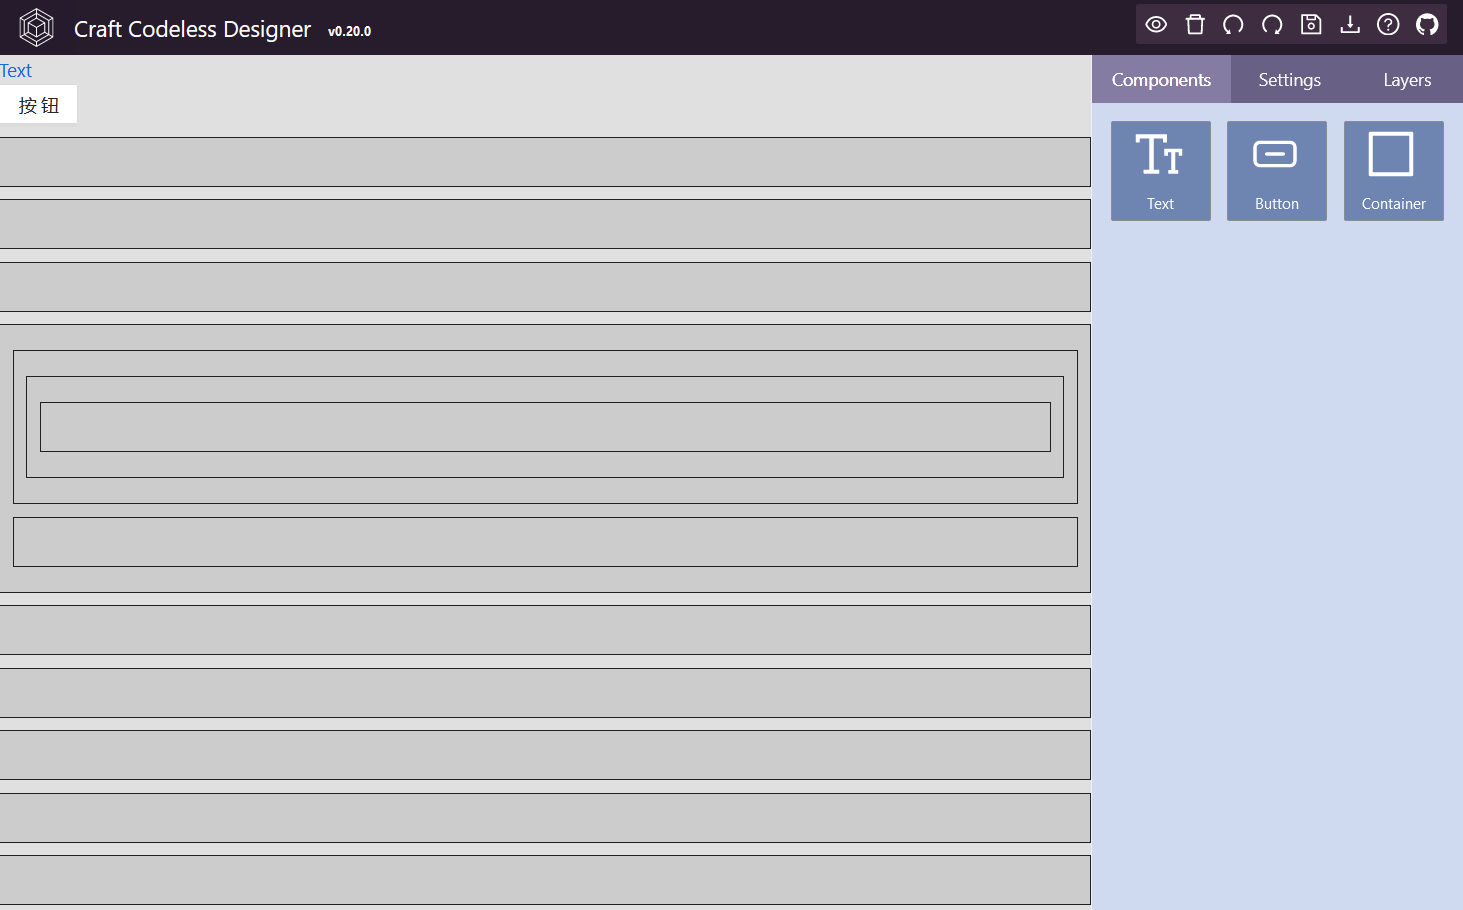
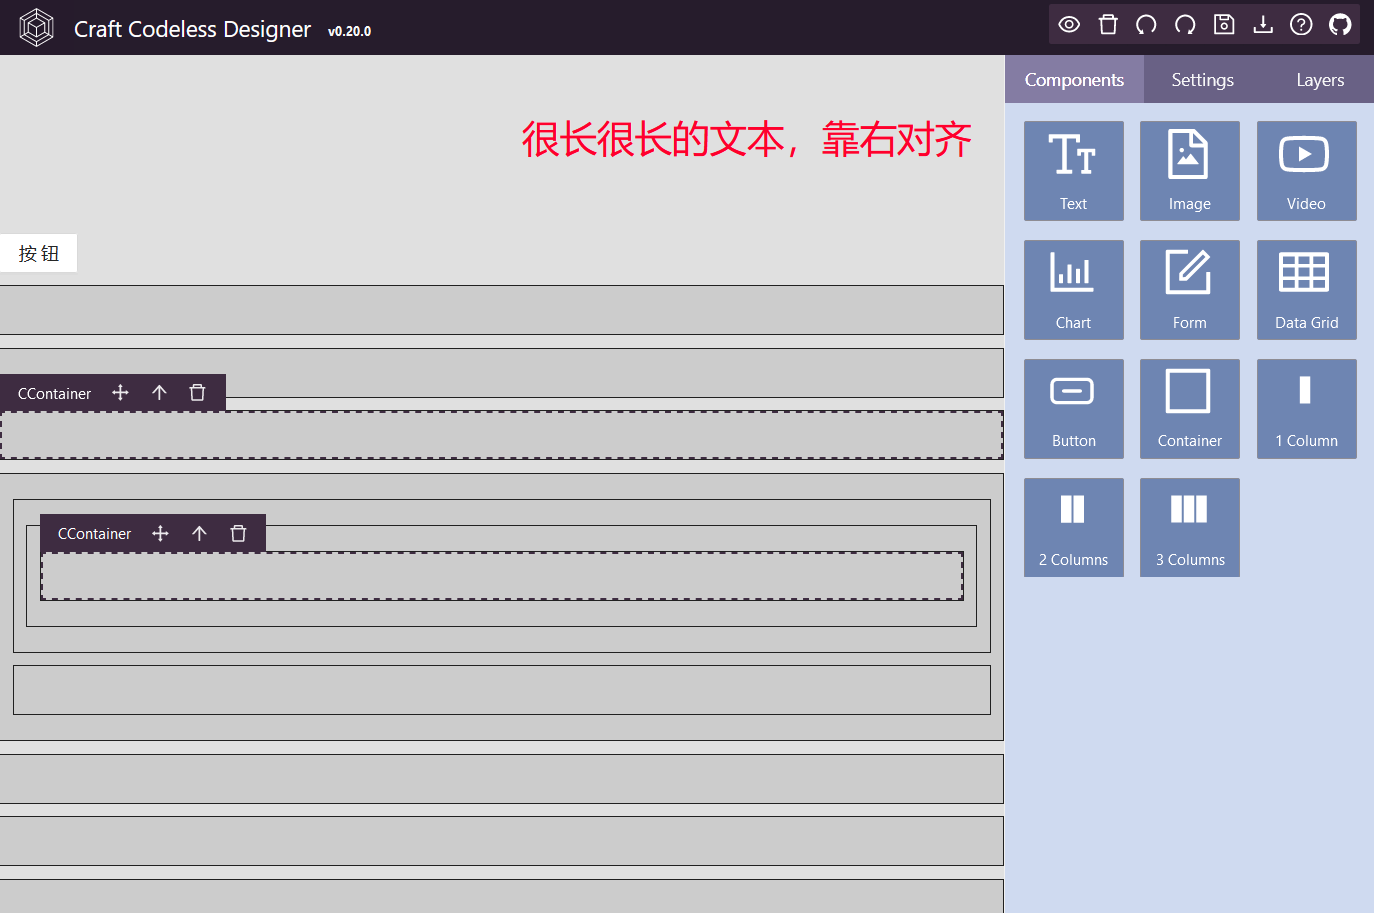
add tools for components

Changed region(s): [[0.0, 0.0, 1.0, 1.0], [0.0, 0.0, 0.2751, 0.1538], [0.0, 0.2462, 0.0611, 0.3077]]

diff --git a/src/designer/RenderNode.jsx b/src/designer/RenderNode.jsx
@@ -1,0 +1,143 @@
+import { ArrowUpOutlined, DeleteOutlined, DragOutlined } from '@ant-design/icons';
+import { useEditor, useNode } from '@craftjs/core';
+import { ROOT_NODE } from '@craftjs/utils';
+import React, { useCallback, useEffect, useRef } from 'react';
+import ReactDOM from 'react-dom';
+import styled from 'styled-components';
+import './RenderNode.css';
+
+const IndicatorDiv = styled.div`
+  height: 30px;
+  margin-top: -29px;
+  font-size: 12px;
+  line-height: 12px;
+
+  svg {
+    fill: #fff;
+    width: 15px;
+    height: 15px;
+  }
+`;
+
+const Btn = styled.a`
+  padding: 0 0px;
+  opacity: 0.9;
+  display: flex;
+  align-items: center;
+  > div {
+    position: relative;
+    top: -50%;
+    left: -50%;
+  }
+`;
+
+export const RenderNode = ({ render }) => {
+  const { id } = useNode();
+  const { actions, query, isActive } = useEditor((_, query) => ({
+    isActive: query.getEvent('selected').contains(id),
+  }));
+
+  const {
+    isHover,
+    dom,
+    name,
+    moveable,
+    deletable,
+    connectors: { drag },
+    parent,
+  } = useNode(node => ({
+    isHover: node.events.hovered,
+    dom: node.dom,
+    name: node.data.custom.displayName || node.data.displayName,
+    moveable: query.node(node.id).isDraggable(),
+    deletable: query.node(node.id).isDeletable(),
+    parent: node.data.parent,
+    props: node.data.props,
+  }));
+
+  const currentRef = useRef();
+
+  useEffect(() => {
+    if (dom) {
+      //FIXME:需要实现 component-selected 样式
+      if (isActive || isHover) dom.classList.add('component-selected');
+      else dom.classList.remove('component-selected');
+    }
+  }, [dom, isActive, isHover]);
+
+  const getPos = useCallback(dom => {
+    const { top, left, bottom } = dom ? dom.getBoundingClientRect() : { top: 0, left: 0, bottom: 0 };
+    return {
+      top: `${top > 0 ? top : bottom}px`,
+      left: `${left}px`,
+    };
+  }, []);
+
+  const scroll = useCallback(() => {
+    const { current: currentDOM } = currentRef;
+    if (!currentDOM) return;
+    const { top, left } = getPos(dom);
+    currentDOM.style.top = top;
+    currentDOM.style.left = left;
+  }, [dom, getPos]);
+
+  useEffect(() => {
+    document.querySelector('.craftjs-renderer').addEventListener('scroll', scroll);
+    return () => {
+      document.querySelector('.craftjs-renderer').removeEventListener('scroll', scroll);
+    };
+  }, [scroll]);
+
+  return (
+    <>
+      {isHover || isActive
+        ? ReactDOM.createPortal(
+            <IndicatorDiv
+              ref={currentRef}
+              style={{
+                color: '#FFF',
+                padding: '15px',
+                alignItems: 'center',
+                display: 'flex',
+                position: 'fixed',
+                backgroundColor: '#3e2c41',
+                left: getPos(dom).left,
+                top: getPos(dom).top,
+                zIndex: 9999,
+              }}
+            >
+              <h2 style={{ fleX: 1, marginRight: '1rem', marginBottom: '0', color: '#fff', fontSize: '12px' }}>{name}</h2>
+              {moveable ? (
+                <Btn style={{ fleX: 1, marginRight: '1rem', cursor: 'move' }} ref={drag}>
+                  <DragOutlined></DragOutlined>
+                </Btn>
+              ) : null}
+              {id !== ROOT_NODE && (
+                <Btn
+                  style={{ marginRight: '1rem', cursor: 'pointer' }}
+                  onClick={() => {
+                    actions.selectNode(parent);
+                  }}
+                >
+                  <ArrowUpOutlined></ArrowUpOutlined>
+                </Btn>
+              )}
+              {deletable ? (
+                <Btn
+                  style={{ cursor: 'pointer' }}
+                  onMouseDown={e => {
+                    e.stopPropagation();
+                    actions.delete(id);
+                  }}
+                >
+                  <DeleteOutlined></DeleteOutlined>
+                </Btn>
+              ) : null}
+            </IndicatorDiv>,
+            document.querySelector('.page-container'),
+          )
+        : null}
+      {render}
+    </>
+  );
+};

diff --git a/src/designer/CraftDesigner.jsx b/src/designer/CraftDesigner.jsx
@@ -1,4 +1,5 @@
 import { Editor } from '@craftjs/core';
+import cx from 'classnames';
 import React from 'react';
 import { Scrollbars } from 'react-custom-scrollbars';
 import styled from 'styled-components';
@@ -7,6 +8,7 @@ import { CText } from '../craft-components/basic/ctext/CText';
 import { CContainer } from '../craft-components/custome/ccontainer/CContainer';
 import { CanvasArea } from './canvas-area/CanvasArea';
 import { NavBar } from './nav-bar/NavBar';
+import { RenderNode } from './RenderNode';
 import { IconList } from './sider-bar/icon-list/IconList';
 import { SiderBar } from './sider-bar/SiderBar';
 
@@ -21,7 +23,7 @@ const MainContainer = styled.div`
 
   .canvasArea {
     flex: 1;
-    background-color: '#6E85B2';
+    background-color: #f7f7f7;
     margin: 0;
   }
 
@@ -41,7 +43,7 @@ const MainContainer = styled.div`
  */
 export const CraftDesigner = props => {
   return (
-    <Editor resolver={{ CButton, CContainer, IconList, CText }}>
+    <Editor resolver={{ CButton, CContainer, IconList, CText }} onRender={RenderNode}>
       <NavBar
         onLoadData={evt => {
           let testData = window.localStorage.getItem('test-data');
@@ -53,8 +55,8 @@ export const CraftDesigner = props => {
           return testData;
         }}
       ></NavBar>
-      <MainContainer>
-        <div className="canvasArea">
+      <MainContainer className="page-container">
+        <div className={cx(['canvasArea craftjs-renderer'])}>
           <Scrollbars
             autoHide
             autoHideTimeout={1000}

diff --git a/src/designer/RenderNode.css b/src/designer/RenderNode.css
@@ -1,0 +1,15 @@
+.component-selected {
+  position: relative;
+}
+
+.component-selected:after {
+  content: ' ';
+  pointer-events: none;
+  position: absolute;
+  left: 0;
+  top: 0;
+  display: block;
+  height: 100%;
+  width: 100%;
+  border: 2px dashed #3e2c41;
+}
